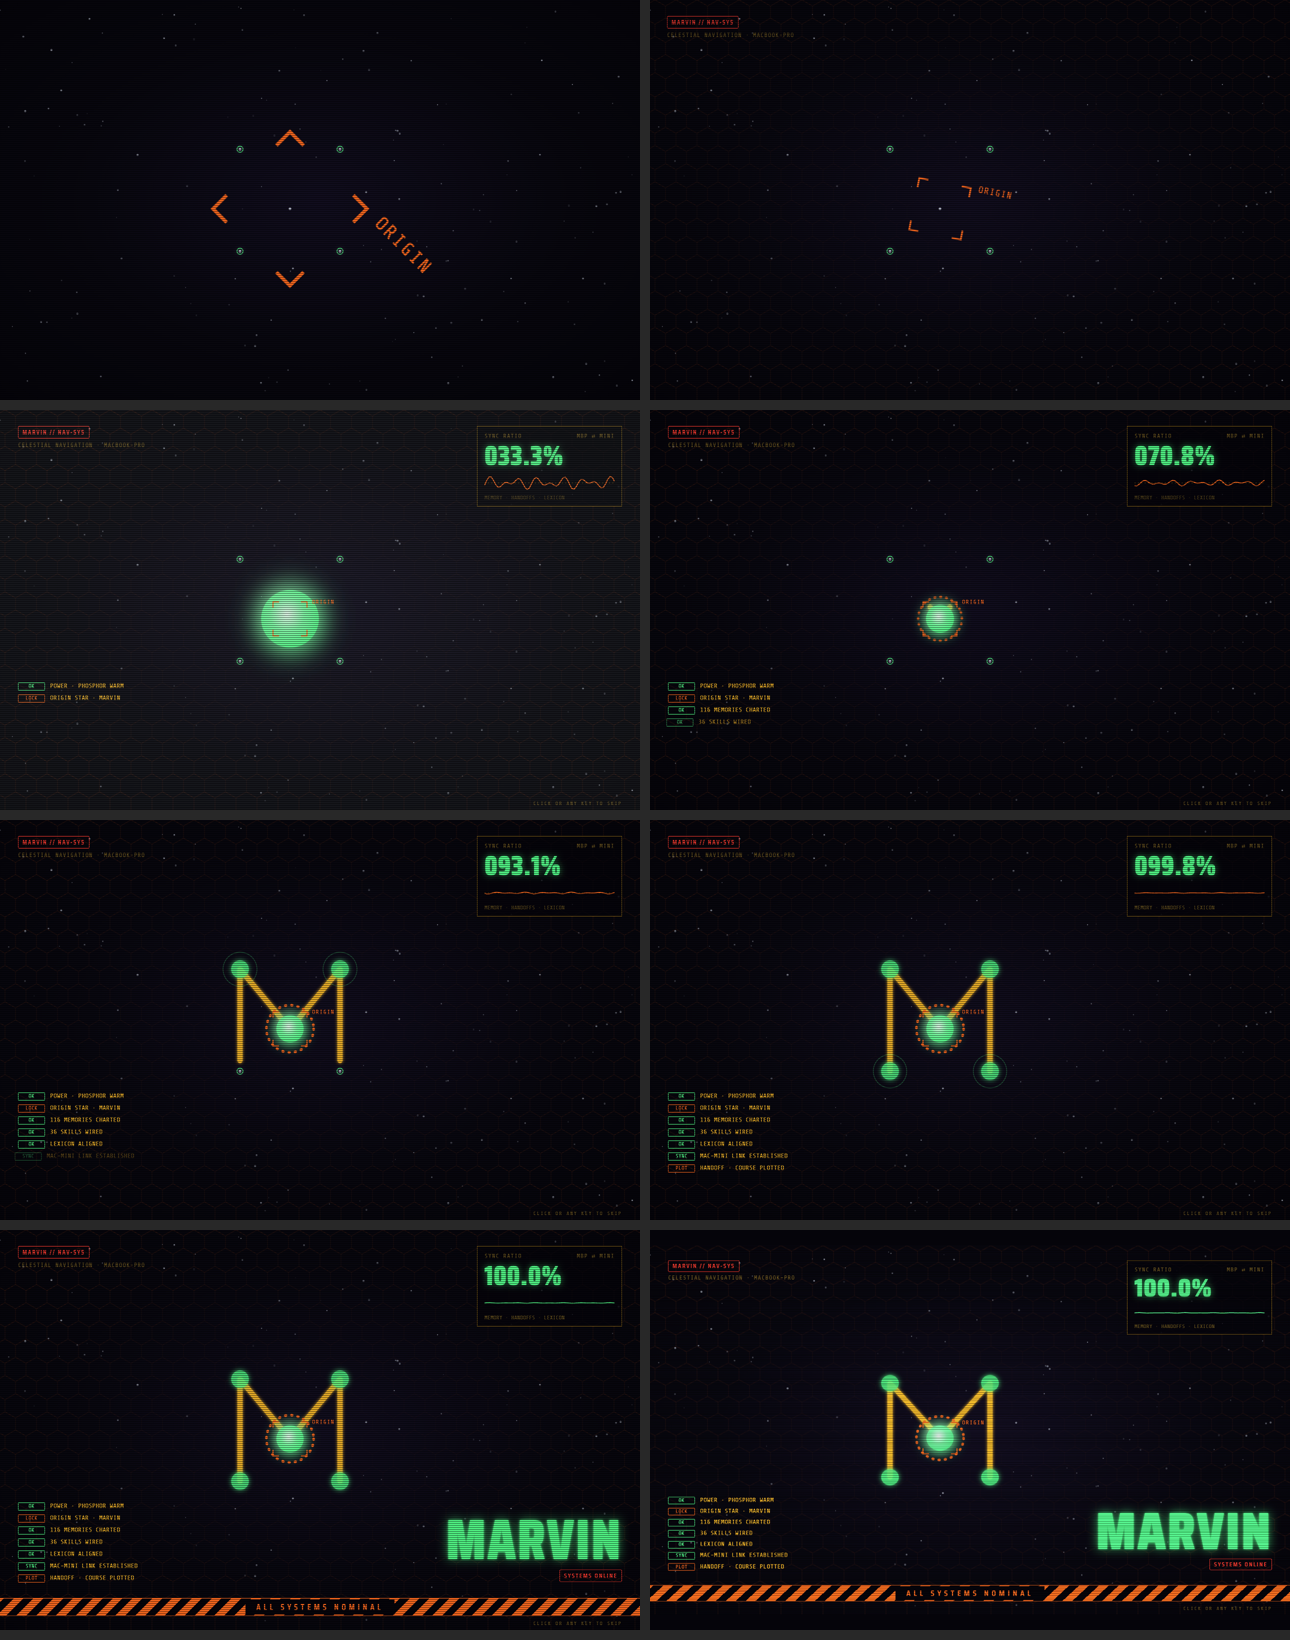
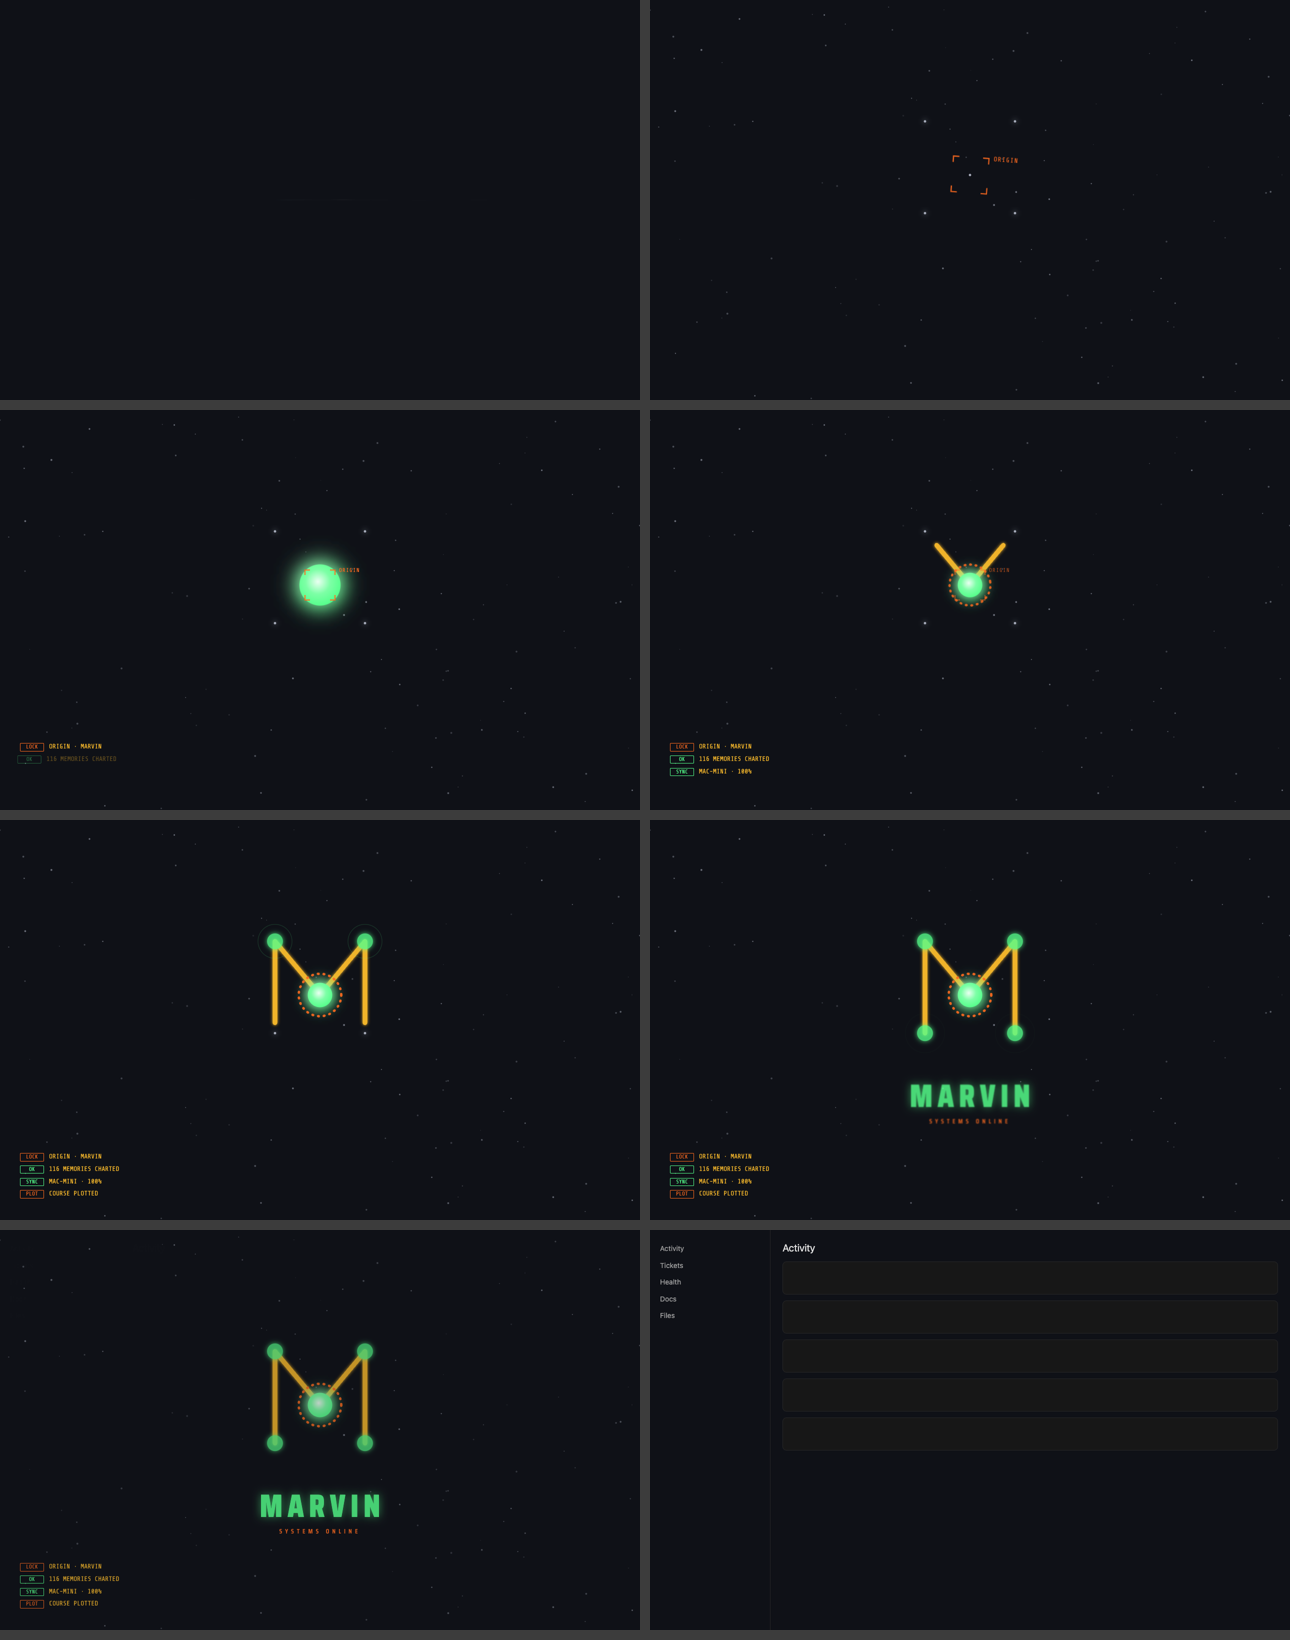
design: boot v4: minimal, dashboard background #0f1117, slower, holds final frame
Claude-Session: https://claude.ai/code/session_01Rm7QNKZGHBtTPkyc9kNCLy

diff --git a/docs/design/celestial-navigation/boot.html b/docs/design/celestial-navigation/boot.html
@@ -1,159 +1,103 @@
 <!doctype html>
 <html><head><meta charset="utf-8"><title>MARVIN Boot</title>
-<link href="https://fonts.googleapis.com/css2?family=Saira+Condensed:wght@500;600;800&family=Share+Tech+Mono&display=swap" rel="stylesheet">
+<link href="https://fonts.googleapis.com/css2?family=Saira+Condensed:wght@600;800&family=Share+Tech+Mono&display=swap" rel="stylesheet">
 <style>
-:root{--bg:#05040A;--amber:#f0b32a;--line:#7a5a14;--orange:#ff6a1f;--red:#ff3b2f;--green:#54ff8a;--dim:#6b551f;--moon:#cfd6e6}
-html,body{margin:0;height:100%;background:#000;overflow:hidden}
-#app{position:fixed;inset:0;display:grid;place-items:center;color:#5a5a66;font:14px system-ui;background:var(--bg)}
-#boot{position:fixed;inset:0;background:radial-gradient(ellipse at 50% 50%,#120e20 0%,#08070f 55%,#05040A 100%);transform-origin:50% 50%}
-#boot::after{content:"";position:absolute;inset:0;pointer-events:none;background:repeating-linear-gradient(#0000 0 2px,#0006 2px 4px);z-index:9}
+/* --dash is the dashboard's own background (electron/main/index.js backgroundColor, index.html body) */
+:root{--dash:#0f1117;--amber:#f0b32a;--orange:#ff6a1f;--red:#ff3b2f;--green:#54ff8a;--dim:#6b551f}
+html,body{margin:0;height:100%;background:var(--dash);overflow:hidden}
+#app{position:fixed;inset:0;background:var(--dash);color:#e5e5e5;font:14px system-ui}
+#boot{position:fixed;inset:0;background:var(--dash);transform-origin:50% 50%}
 #sky{position:absolute;inset:0;width:100%;height:100%}
-.mono{font-family:'Share Tech Mono',monospace}
-.tag{display:inline-block;border:1px solid var(--red);color:var(--red);border-radius:3px;padding:1px 8px;font:600 13px 'Saira Condensed';letter-spacing:2px}
 .hud{position:absolute;opacity:0}
-#tl{left:36px;top:32px}
-#tl .sub{margin-top:6px;color:var(--dim);font:12px 'Share Tech Mono';letter-spacing:1px}
-#log{left:36px;bottom:92px;font:13px/1.85 'Share Tech Mono';color:var(--amber);opacity:1}
+#log{left:40px;bottom:40px;font:13px/1.9 'Share Tech Mono',monospace;color:var(--amber);opacity:1}
 #log div{opacity:0;white-space:nowrap}
-#log b{font-weight:400;display:inline-block;min-width:52px;text-align:center;margin-right:10px;border:1px solid currentColor;border-radius:2px;line-height:1.3;font-size:11px}
-.ok{color:var(--green)}.k{color:var(--orange)}.r{color:var(--red)}
-#sync{right:36px;top:32px;width:260px;border:1px solid var(--line);padding:12px 14px 10px;background:#05040acc}
-#sync .lbl{display:flex;justify-content:space-between;font:12px 'Share Tech Mono';color:var(--dim);letter-spacing:1px}
-#sync .num{font:800 54px/1 'Saira Condensed';color:var(--green);text-shadow:0 0 14px #54ff8a88;margin:6px 0 4px;letter-spacing:1px}
-#sync svg{display:block;width:100%;height:46px}
-#sync .foot{font:11px 'Share Tech Mono';color:var(--dim)}
-#title{right:36px;bottom:96px;text-align:right}
-#title h1{margin:0;font:800 112px/.86 'Saira Condensed';color:var(--green);letter-spacing:3px;text-shadow:0 0 22px #54ff8aaa,0 0 4px #54ff8a}
-#title .tag{margin-top:12px}
-#hazard{left:0;right:0;bottom:28px;height:34px;display:flex;align-items:center;overflow:hidden;border-top:1px solid var(--orange);border-bottom:1px solid var(--orange);
- background:repeating-linear-gradient(-45deg,#ff6a1f 0 14px,#05040A 14px 28px);opacity:0}
-#hazard span{margin:0 auto;background:#05040A;padding:2px 22px;font:600 17px 'Saira Condensed';letter-spacing:6px;color:var(--orange)}
-#lockLbl{font:12px 'Share Tech Mono';fill:var(--orange);letter-spacing:1px}
-#hint{right:36px;bottom:8px;font:10px 'Share Tech Mono';letter-spacing:2px;color:var(--dim)}
-#flash{position:absolute;inset:0;background:#e9fff0;opacity:0;pointer-events:none;z-index:8}
+#log b{font-weight:400;display:inline-block;min-width:46px;text-align:center;margin-right:10px;border:1px solid currentColor;border-radius:2px;line-height:1.3;font-size:11px}
+.ok{color:var(--green)}.k{color:var(--orange)}
+#title{left:50%;top:calc(50% + 120px);transform:translateX(-50%);text-align:center;white-space:nowrap}
+#title h1{margin:0;font:800 64px/1 'Saira Condensed';color:var(--green);letter-spacing:10px;padding-left:10px;text-shadow:0 0 18px #54ff8a99}
+#title .sub{margin-top:8px;font:600 13px 'Saira Condensed';letter-spacing:6px;color:var(--orange)}
+#lockLbl{font:11px 'Share Tech Mono';fill:var(--orange);letter-spacing:1px}
 </style></head><body>
-<div id="app">[ dashboard renders here underneath ]</div>
+<div id="app"></div>
 <div id="boot">
  <svg id="sky" viewBox="-640 -400 1280 800" preserveAspectRatio="xMidYMid slice">
   <defs>
-   <pattern id="hex" width="42" height="72.75" patternUnits="userSpaceOnUse"><path d="M21 0 L42 12.1 L42 36.4 L21 48.5 L0 36.4 L0 12.1 Z M21 48.5 L21 72.75" fill="none" stroke="#ff6a1f" stroke-width=".7"/></pattern>
-   <radialGradient id="hexMask" cx="50%" cy="50%" r="55%"><stop offset="0" stop-color="#fff" stop-opacity=".0"/><stop offset=".6" stop-color="#fff" stop-opacity=".5"/><stop offset="1" stop-color="#fff" stop-opacity="1"/></radialGradient>
-   <mask id="hm"><rect x="-640" y="-400" width="1280" height="800" fill="url(#hexMask)"/></mask>
    <filter id="gl" x="-50%" y="-50%" width="200%" height="200%"><feGaussianBlur stdDeviation="3" result="b"/><feMerge><feMergeNode in="b"/><feMergeNode in="SourceGraphic"/></feMerge></filter>
    <filter id="gn" x="-300%" y="-300%" width="700%" height="700%"><feGaussianBlur stdDeviation="5" result="b"/><feMerge><feMergeNode in="b"/><feMergeNode in="SourceGraphic"/></feMerge></filter>
    <filter id="gc" x="-400%" y="-400%" width="900%" height="900%"><feGaussianBlur stdDeviation="13" result="b"/><feMerge><feMergeNode in="b"/><feMergeNode in="b"/><feMergeNode in="SourceGraphic"/></feMerge></filter>
    <radialGradient id="core" cx="45%" cy="42%" r="60%"><stop offset="0" stop-color="#eafff1"/><stop offset=".5" stop-color="#7dffa6"/><stop offset="1" stop-color="#54ff8a"/></radialGradient>
   </defs>
-  <rect id="hexbg" x="-640" y="-400" width="1280" height="800" fill="url(#hex)" mask="url(#hm)" opacity="0"/>
-  <g id="field"></g>
-  <g id="mark"></g>
-  <g id="lock"></g>
+  <g id="field"></g><g id="mark"></g><g id="lock"></g>
  </svg>
- <div class="hud" id="tl"><span class="tag">MARVIN // NAV-SYS</span><div class="sub">CELESTIAL NAVIGATION · MACBOOK-PRO</div></div>
- <div class="hud" id="sync">
-  <div class="lbl"><span>SYNC RATIO</span><span>MBP ⇄ MINI</span></div>
-  <div class="num" id="syncNum">000.0%</div>
-  <svg viewBox="0 0 232 46" preserveAspectRatio="none"><line x1="0" y1="23" x2="232" y2="23" stroke="#7a5a14" stroke-width="1" stroke-dasharray="2 4"/><path id="wave" fill="none" stroke="#ff6a1f" stroke-width="1.6"/></svg>
-  <div class="foot" id="syncFoot">MEMORY · HANDOFFS · LEXICON</div>
- </div>
  <div class="hud" id="log"></div>
- <div class="hud" id="title"><h1>MARVIN</h1><span class="tag">SYSTEMS ONLINE</span></div>
- <div class="hud" id="hazard"><span>ALL SYSTEMS NOMINAL</span></div>
- <div class="hud" id="hint">CLICK OR ANY KEY TO SKIP</div>
- <div id="flash"></div>
+ <div class="hud" id="title"><h1>MARVIN</h1><div class="sub">SYSTEMS ONLINE</div></div>
 </div>
 <script>
-// ---- The mark. Same geometry as the app icon (render3.html, 1024 grid). ----
+// The mark: same geometry as the app icon (icon.html, 1024 grid).
 const ICON = { pts: [[262,772],[262,262],[512,560],[762,262],[762,772]], core: 2, star: 44, coreR: 68, orbit: 118, line: 26 };
-const S = 0.40, C = [512,516];
-const P = ICON.pts.map(([x,y]) => [(x-C[0])*S - 60, (y-C[1])*S]);   // nudged left of the title card
+const S = 0.36, C = [512,560];
+const P = ICON.pts.map(([x,y]) => [(x-C[0])*S, (y-C[1])*S - 50]);
 const [cx,cy] = P[ICON.core];
+// Live values in the real build; a real problem shows here instead of "OK".
+const LOG = [['k','LOCK','ORIGIN · MARVIN'],['ok','OK','116 MEMORIES CHARTED'],['ok','SYNC','MAC-MINI · 100%'],['k','PLOT','COURSE PLOTTED']];
 
-// ---- Boot log (prototype values; the real build reads live state) ----
-const LOG = [
-  ['ok','OK','POWER · PHOSPHOR WARM'],
-  ['k','LOCK','ORIGIN STAR · MARVIN'],
-  ['ok','OK','116 MEMORIES CHARTED'],
-  ['ok','OK','36 SKILLS WIRED'],
-  ['ok','OK','LEXICON ALIGNED'],
-  ['ok','SYNC','MAC-MINI LINK ESTABLISHED'],
-  ['k','PLOT','HANDOFF · COURSE PLOTTED'],
-];
-
+const K = 1.3;            // pacing: every delay and duration is scaled by this
+const HOLD = 1200;        // ms the finished frame holds before handing over
 const NS='http://www.w3.org/2000/svg', el=(t,a,p)=>{const e=document.createElementNS(NS,t);for(const k in a)e.setAttribute(k,a[k]);p&&p.appendChild(e);return e};
 const $=id=>document.getElementById(id);
-const anims=[]; const A=(node,kf,o)=>{const a=node.animate(kf,{fill:'both',easing:'cubic-bezier(.2,.7,.2,1)',...o});anims.push(a);return a};
-const svgOrigin=(n,x,y)=>{n.style.transformOrigin=`${x}px ${y}px`;n.style.transformBox='view-box'};
+const anims=[]; const A=(node,kf,o)=>{const a=node.animate(kf,{fill:'both',easing:'cubic-bezier(.2,.7,.2,1)',...o,delay:(o.delay||0)*K,duration:o.duration*K});anims.push(a);return a};
+const at=(n,x,y)=>{n.style.transformOrigin=`${x}px ${y}px`;n.style.transformBox='view-box'};
 const field=$('field'), mark=$('mark'), lock=$('lock');
 
-// 1 · CRT power-on: a bright line opens into the screen
-A($('boot'),[{transform:'scaleY(.004) scaleX(.6)',filter:'brightness(4)'},{transform:'scaleY(.004) scaleX(1)',filter:'brightness(4)',offset:.45},{transform:'scaleY(1) scaleX(1)',filter:'brightness(1)'}],{duration:420,easing:'cubic-bezier(.7,0,.3,1)'});
-A($('hexbg'),[{opacity:0},{opacity:.22}],{delay:350,duration:600});
+// CRT power-on
+A($('sky'),[{transform:'scaleY(.004) scaleX(.5)',filter:'brightness(3)'},{transform:'scaleY(.004) scaleX(1)',filter:'brightness(3)',offset:.45},{transform:'none',filter:'none'}],{duration:420,easing:'cubic-bezier(.7,0,.3,1)'});
 
-// 2 · Sky: field stars, with the five constellation stars hidden among them as ordinary stars
+// Sky, with the five stars hidden among ordinary stars
 let s=23;const r=()=>(s=(s*16807)%2147483647)/2147483647;
-for(let i=0;i<170;i++){const x=(r()-.5)*1280,y=(r()-.5)*800;
-  if(P.some(([px,py])=>Math.hypot(px-x,py-y)<40)) continue;
-  el('circle',{cx:x,cy:y,r:.6+r()*1.5,fill:'#cfd6e6',opacity:.12+r()*.5},field);}
-const stars=P.map(([x,y],i)=>{const g=el('g',{},mark);svgOrigin(g,x,y);
-  const dot=el('circle',{cx:x,cy:y,r:2.6,fill:'#cfd6e6',opacity:.85},g); return {g,dot,x,y};});
+for(let i=0;i<120;i++){const x=(r()-.5)*1280,y=(r()-.5)*800; if(P.some(([px,py])=>Math.hypot(px-x,py-y)<36)) continue;
+  el('circle',{cx:x,cy:y,r:.6+r()*1.3,fill:'#cfd6e6',opacity:.1+r()*.4},field);}
+const stars=P.map(([x,y])=>({x,y,dot:el('circle',{cx:x,cy:y,r:2.4,fill:'#cfd6e6',opacity:.8},mark)}));
 
-// 3 · Target lock on the origin star
-const LKW=el('g',{},lock); const LK=el('g',{},LKW); svgOrigin(LK,cx,cy);
-const b=34,L=12; [[-1,-1],[1,-1],[1,1],[-1,1]].forEach(([sx,sy])=>el('path',{d:`M${cx+sx*b} ${cy+sy*(b-L)} V${cy+sy*b} H${cx+sx*(b-L)}`,stroke:'#ff6a1f','stroke-width':2.2,fill:'none'},LK));
-const lbl=el('text',{x:cx+b+10,y:cy-b+4,id:'lockLbl'},LK); lbl.textContent='ORIGIN';
-A(LK,[{opacity:0,transform:'scale(3.2) rotate(45deg)'},{opacity:1,transform:'scale(1) rotate(0deg)',offset:.7},{opacity:1,transform:'scale(1.12)',offset:.82},{opacity:1,transform:'scale(1)'}],{delay:480,duration:520});
+// Lock on the origin star
+const LKW=el('g',{},lock), LK=el('g',{},LKW); at(LK,cx,cy);
+const b=30,L=10; [[-1,-1],[1,-1],[1,1],[-1,1]].forEach(([sx,sy])=>el('path',{d:`M${cx+sx*b} ${cy+sy*(b-L)} V${cy+sy*b} H${cx+sx*(b-L)}`,stroke:'#ff6a1f','stroke-width':2,fill:'none'},LK));
+el('text',{x:cx+b+8,y:cy-b+4,id:'lockLbl'},LK).textContent='ORIGIN';
+A(LK,[{opacity:0,transform:'scale(3) rotate(45deg)'},{opacity:1,transform:'scale(1) rotate(0deg)',offset:.75},{opacity:1,transform:'scale(1.1)',offset:.85},{opacity:1,transform:'scale(1)'}],{delay:500,duration:520});
 A(LKW,[{opacity:1},{opacity:0}],{delay:1500,duration:300});
 
-// 4 · The origin star ignites
-const core=el('circle',{cx,cy,r:ICON.coreR*S,fill:'url(#core)',filter:'url(#gc)'},mark); svgOrigin(core,cx,cy);
-A(core,[{opacity:0,transform:'scale(.1)'},{opacity:1,transform:'scale(2.3)',offset:.4},{opacity:1,transform:'scale(1)'}],{delay:950,duration:650});
-A($('flash'),[{opacity:0},{opacity:.16,offset:.15},{opacity:0}],{delay:950,duration:450});
-const orbit=el('circle',{cx,cy,r:ICON.orbit*S,fill:'none',stroke:'#ff6a1f','stroke-width':5.5,'stroke-dasharray':'1.5 11','stroke-linecap':'round'},mark); svgOrigin(orbit,cx,cy);
-A(orbit,[{opacity:0,transform:'rotate(-120deg) scale(.5)'},{opacity:.9,transform:'rotate(0deg) scale(1)'}],{delay:1150,duration:800});
+// Ignite
+const core=el('circle',{cx,cy,r:ICON.coreR*S,fill:'url(#core)',filter:'url(#gc)'},mark); at(core,cx,cy);
+A(core,[{opacity:0,transform:'scale(.1)'},{opacity:1,transform:'scale(2.1)',offset:.4},{opacity:1,transform:'none'}],{delay:950,duration:650});
+const orbit=el('circle',{cx,cy,r:ICON.orbit*S,fill:'none',stroke:'#ff6a1f','stroke-width':5,'stroke-dasharray':'1.5 10','stroke-linecap':'round'},mark); at(orbit,cx,cy);
+A(orbit,[{opacity:0,transform:'rotate(-120deg) scale(.5)'},{opacity:.9,transform:'none'}],{delay:1150,duration:800});
 
-// 5 · Lines grow OUT of the origin: core→TL→BL and core→TR→BR, together
-const branch=(a,b2,c,delay)=>{const d=`M${P[a]} L${P[b2]} L${P[c]}`;
-  const p=el('path',{d,fill:'none',stroke:'#f0b32a','stroke-width':ICON.line*S,'stroke-linejoin':'round','stroke-linecap':'round',filter:'url(#gl)'},mark);
-  mark.insertBefore(p,mark.firstChild); const len=p.getTotalLength(); p.style.strokeDasharray=len;
-  A(p,[{strokeDashoffset:len},{strokeDashoffset:0}],{delay,duration:900,easing:'cubic-bezier(.5,0,.3,1)'});
-  const seg1=Math.hypot(P[b2][0]-P[a][0],P[b2][1]-P[a][1]); return [delay+900*0.5*(seg1/len)*1.6, delay+880];};
-const [tTL,tBL]=branch(2,1,0,1250), [tTR,tBR]=branch(2,3,4,1250);
-// 6 · Each star is reached: ping ring, brightens to green
-const reach=(i,t)=>{const st=stars[i];
-  A(st.dot,[{r:2.6,fill:'#cfd6e6'},{r:ICON.star*S*1.5,fill:'#54ff8a',offset:.5},{r:ICON.star*S,fill:'#54ff8a'}],{delay:t,duration:420});
-  st.dot.setAttribute('filter','url(#gn)');
-  const ring=el('circle',{cx:st.x,cy:st.y,r:6,fill:'none',stroke:'#54ff8a','stroke-width':1.5},mark);
-  A(ring,[{r:6,opacity:0},{r:6,opacity:.9,offset:.02},{r:46,opacity:0}],{delay:t,duration:700,easing:'ease-out'});};
-reach(1,tTL); reach(3,tTR); reach(0,tBL); reach(4,tBR);
+// Lines grow out of the origin; stars ping as they're reached
+const branch=(a,m,c,delay)=>{const p=el('path',{d:`M${P[a]} L${P[m]} L${P[c]}`,fill:'none',stroke:'#f0b32a','stroke-width':ICON.line*S,'stroke-linejoin':'round','stroke-linecap':'round',filter:'url(#gl)'},mark);
+  mark.insertBefore(p,mark.firstChild); const len=p.getTotalLength(), l1=Math.hypot(P[m][0]-P[a][0],P[m][1]-P[a][1]); p.style.strokeDasharray=len;
+  A(p,[{strokeDashoffset:len},{strokeDashoffset:0}],{delay,duration:900,easing:'linear'}); return [delay+900*l1/len, delay+900];};
+const reach=(i,t)=>{const st=stars[i]; st.dot.setAttribute('filter','url(#gn)');
+  A(st.dot,[{r:2.4,fill:'#cfd6e6'},{r:ICON.star*S*1.5,fill:'#54ff8a',offset:.5},{r:ICON.star*S,fill:'#54ff8a'}],{delay:t,duration:420});
+  const ring=el('circle',{cx:st.x,cy:st.y,r:6,fill:'none',stroke:'#54ff8a','stroke-width':1.3},mark);
+  A(ring,[{r:6,opacity:0},{r:6,opacity:.8,offset:.02},{r:40,opacity:0}],{delay:t,duration:700,easing:'ease-out'});};
+const [a1,a2]=branch(2,1,0,1250), [b1,b2]=branch(2,3,4,1250);
+reach(1,a1); reach(3,b1); reach(0,a2); reach(4,b2);
 
-// 7 · HUD
-A($('tl'),[{opacity:0,transform:'translateX(-16px)'},{opacity:1,transform:'none'}],{delay:420,duration:350});
-A($('hint'),[{opacity:0},{opacity:1}],{delay:600,duration:300});
+// Log + title
 LOG.forEach(([c,chip,txt],i)=>{const d=document.createElement('div');d.innerHTML=`<b class="${c}">${chip}</b>${txt}`;$('log').appendChild(d);
-  A(d,[{opacity:0,transform:'translateX(-10px)'},{opacity:1,transform:'none'}],{delay:520+i*260,duration:160,easing:'steps(3)'});});
-A($('sync'),[{opacity:0,transform:'translateY(-10px)'},{opacity:1,transform:'none'}],{delay:700,duration:300});
-// sync ratio: counter + waveform that calms to flat as the link settles (driven by a 0..1 timeline)
-const syncT=A($('syncFoot'),[{opacity:.6},{opacity:1}],{delay:800,duration:1900,easing:'linear'});
-const wave=$('wave'), num=$('syncNum');
-function drawSync(){const p=Math.min(1,Math.max(0,((syncT.currentTime??0)-800)/1900)), e=1-Math.pow(1-p,3);
-  num.textContent=(e*100).toFixed(1).padStart(5,'0')+'%';
-  let d='';for(let x=0;x<=232;x+=4){const amp=19*(1-e)+0.6, y=23+amp*Math.sin(x*0.19+p*22)*Math.sin(x*0.043+1.3);d+=(x?'L':'M')+x+' '+y.toFixed(1);}
-  wave.setAttribute('d',d); wave.setAttribute('stroke',p>=1?'#54ff8a':'#ff6a1f');}
+  A(d,[{opacity:0,transform:'translateX(-8px)'},{opacity:1,transform:'none'}],{delay:600+i*380,duration:160,easing:'steps(3)'});});
+A($('title'),[{opacity:0,letterSpacing:'0px',filter:'blur(6px)'},{opacity:1,filter:'blur(0)'}],{delay:2350,duration:420,easing:'steps(6)'});
 
-// 8 · Title card + hazard bar
-A($('title'),[{opacity:0,transform:'translateX(24px)',filter:'blur(6px)'},{opacity:1,transform:'none',filter:'blur(0)'}],{delay:2500,duration:380,easing:'steps(6)'});
-A($('hazard'),[{opacity:0,clipPath:'inset(0 50% 0 50%)'},{opacity:1,clipPath:'inset(0 0 0 0)'}],{delay:2750,duration:380});
+// Hold, then dissolve straight into the dashboard (same background, so nothing flashes)
+const DONE=2800, END=DONE+HOLD/K;
+A($('boot'),[{opacity:1},{opacity:0}],{delay:END,duration:500,easing:'ease-in-out'});
+A($('app'),[{opacity:0},{opacity:1}],{delay:END+150,duration:450});
 
-// 9 · Exit: CRT collapse into a line, then the dashboard
-const END=3900;
-A($('boot'),[{transform:'scaleY(1)',filter:'brightness(1)'},{transform:'scaleY(.004)',filter:'brightness(3)',offset:.7},{transform:'scaleY(.004) scaleX(0)',filter:'brightness(3)'}],{delay:END,duration:420,easing:'cubic-bezier(.7,0,.3,1)',composite:'replace'});
-
-window.BOOT_TOTAL=END+480;
-const tick=()=>{drawSync();requestAnimationFrame(tick)}; tick();
-window.seek=(ms)=>{anims.forEach(a=>{a.pause();a.currentTime=ms});drawSync()};
-const skip=()=>anims.forEach(a=>a.currentTime=Math.max(a.currentTime||0,END));
+window.BOOT_TOTAL=(END+520)*K;
+window.seek=(ms)=>anims.forEach(a=>{a.pause();a.currentTime=ms});
+const skip=()=>anims.forEach(a=>a.currentTime=Math.max(a.currentTime||0,END*K));
 addEventListener('keydown',skip); $('boot').addEventListener('click',skip);
 if(location.search.includes('rec')) anims.forEach(a=>a.pause());
+// Prototype only: a stand-in dashboard so the hand-off can be seen.
+if(location.search.includes('dash')) $('app').innerHTML='<div style="display:flex;height:100%"><div style="width:200px;border-right:1px solid #262626;padding:20px;color:#a3a3a3;line-height:2.4">Activity<br>Tickets<br>Health<br>Docs<br>Files</div><div style="flex:1;padding:24px"><div style="font-size:20px;margin-bottom:16px">Activity</div>'+'<div style="height:64px;border:1px solid #262626;border-radius:8px;margin-bottom:12px;background:#171717"></div>'.repeat(5)+'</div></div>';
 </script>
 </body></html>

diff --git a/docs/design/celestial-navigation/README.md b/docs/design/celestial-navigation/README.md
@@ -47,16 +47,19 @@ icon changes the boot as well.
 
 ![Icon on iPhone and Mac](icon-on-devices.png)
 
-## The boot sequence (about 4.4 s, any key or click skips it)
+## The boot sequence (v4, about 5.5 s, any key or click skips it)
 
-1. **CRT power-on:** a bright line opens into the screen, and the hex grid fades in.
+Minimal by request (2026-10-14). It uses the **dashboard's own background, `#0f1117`**, so the hand-off is seamless.
+
+1. **CRT power-on:** a bright line opens into the sky.
 2. **The sky.** The five M stars are already there, hidden among ordinary stars.
-3. **Target lock.** An orange reticle snaps onto the origin star (MARVIN), and the origin star ignites.
+3. **Target lock.** An orange reticle snaps onto the origin star (MARVIN), and the origin star ignites with a dashed orbit.
 4. **Lines grow out of the origin** in two branches. Each star they reach pings and turns green.
-5. **HUD.** The log fills in (`OK`, `LOCK`, `SYNC`, `PLOT` chips), and the sync ratio counts up to 100% while its
-   waveform settles flat. Sync ratio is the real MacBook ⇄ Mini memory sync, not decoration.
-6. **Title card:** "MARVIN · SYSTEMS ONLINE", plus a hazard bar reading "ALL SYSTEMS NOMINAL".
-7. **CRT collapse** into a line, then the dashboard. The dashboard renders underneath from saved state, so it never waits on the boot.
+5. **Four-line log:** `LOCK origin`, `OK memories`, `SYNC mac-mini %`, `PLOT course`. Then "MARVIN · SYSTEMS ONLINE".
+6. **Hold** the finished frame for 1.2 s, then **dissolve** straight into the dashboard. Same background, so nothing flashes.
+
+Pacing is a single `K` factor (1.3) and the hold is `HOLD` (1200 ms), so both are easy to tune.
+Removed in v4: the hex grid, hazard bar, boxed sync panel, top-left tag and CRT collapse. Those belong to the later dashboard redo if anywhere.
 
 The real build reads live values. If something is actually wrong, the boot shows it (for example, a sync stall
 appears as a red `SYNC` chip below 100%) and does not report "nominal".
